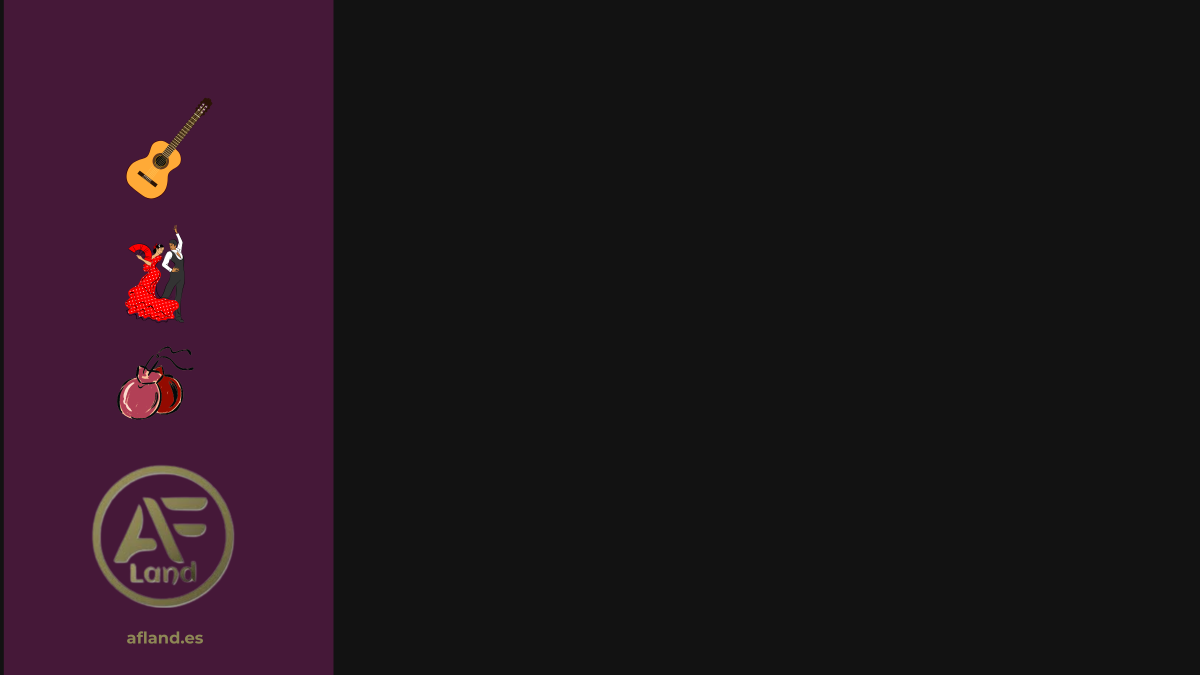
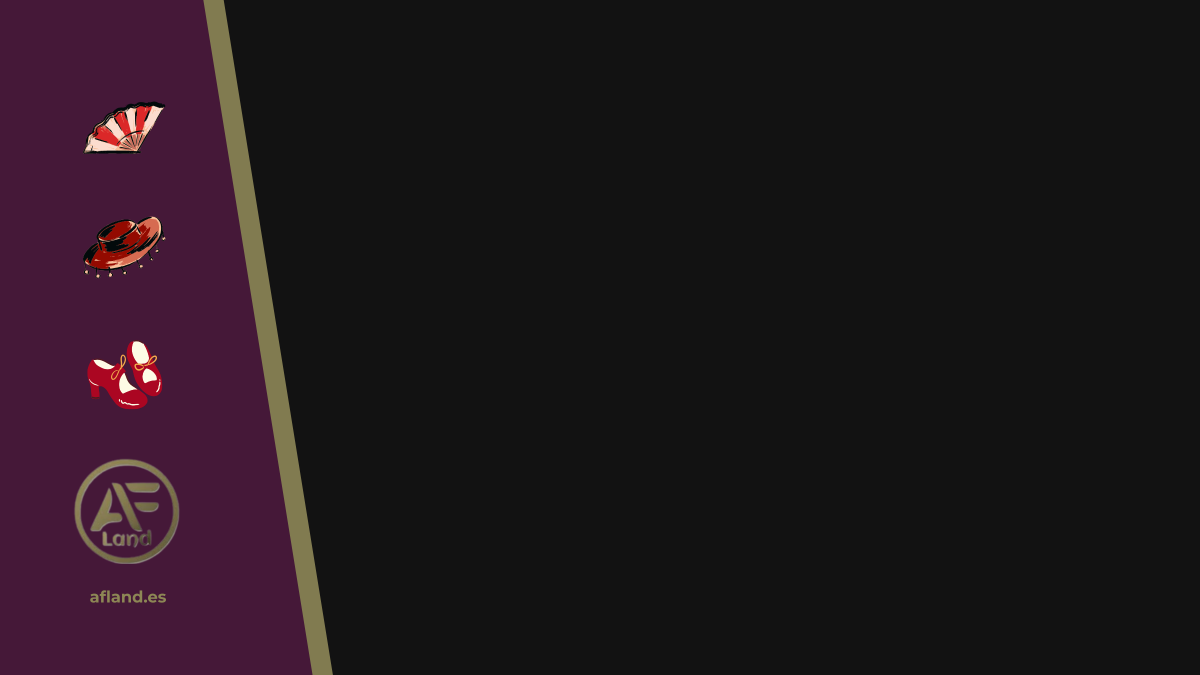
script cambiar imagenes tarjetas

diff --git a/image-enricher.js b/image-enricher.js
@@ -1,0 +1,97 @@
+// image-enricher.js
+
+require('dotenv').config();
+const { connectToDatabase } = require('./lib/database.js');
+const { createFinderImage } = require('./lib/imageGenerator.js');
+const { uploadImage } = require('./lib/wordpressClient.js');
+const { ObjectId } = require('mongodb');
+const fs = require('fs').promises; // Usamos la versión de promesas de fs
+
+// --- CONFIGURACIÓN ---
+// Para la primera ejecución, dejamos la query abierta para que procese todos.
+// En el futuro, podríamos cambiarla a: { imageUrl: { $exists: false } }
+const QUERY = {};
+const BATCH_SIZE = 100; // Procesará eventos en lotes de 100 para no sobrecargar
+
+async function enrichImages() {
+    console.log("--- 🚀 INICIANDO ENRIQUECEDOR DE IMÁGENES ---");
+
+    try {
+        const db = await connectToDatabase();
+        const eventsCollection = db.collection('events');
+
+        console.log("🔎 Buscando eventos para enriquecer...");
+        const eventsToProcess = await eventsCollection.find(QUERY).limit(BATCH_SIZE).toArray();
+
+        if (eventsToProcess.length === 0) {
+            console.log("✅ No se encontraron eventos que necesiten una nueva imagen. ¡Trabajo hecho!");
+            return;
+        }
+
+        console.log(`⚙ Se encontraron ${eventsToProcess.length} eventos en este lote para procesar.`);
+
+        for (const event of eventsToProcess) {
+            console.log(`\n-----------------------------------------------------`);
+            console.log(`🎨 Procesando evento: "${event.name}" en "${event.city}"`);
+
+            let imagePath = null;
+            try {
+                // 1. Crear la imagen localmente
+                console.log("   1/4: Creando imagen con Sharp...");
+                imagePath = await createFinderImage(event);
+                if (!imagePath) throw new Error("La creación de la imagen falló.");
+
+                // 2. Subir la imagen a WordPress
+                console.log("   2/4: Subiendo imagen a WordPress...");
+                const imageTitle = `${event.name} - ${event.city}`;
+                const imageId = await uploadImage(imagePath, imageTitle);
+                if (!imageId) throw new Error("La subida a WordPress falló.");
+
+                // uploadImage devuelve el ID, pero necesitamos la URL.
+                // Asumimos que el wordpressClient podría devolver más datos o construimos la URL.
+                // Por ahora, nos centramos en actualizar el campo en la BBDD.
+                // NOTA: Para obtener la URL final, necesitaríamos modificar uploadImage o hacer otra llamada.
+                // De momento, guardaremos una marca de que la imagen se ha procesado.
+                // En una futura mejora, guardaremos la URL completa.
+
+                // 3. Actualizar la base de datos
+                console.log("   3/4: Actualizando la base de datos...");
+                // Aquí deberíamos guardar la URL final de la imagen. 
+                // Por ahora, actualizaremos un campo para saber que se ha procesado.
+                await eventsCollection.updateOne(
+                    { _id: new ObjectId(event._id) },
+                    {
+                        $set: {
+                            // En el futuro, aquí iría: imageUrl: wordpressResponse.source_url
+                            imageGenerated: true,
+                            lastImageUpdate: new Date()
+                        }
+                    }
+                );
+
+                console.log(`   ✅ Evento actualizado en MongoDB.`);
+
+            } catch (error) {
+                console.error(`   ❌ Error procesando el evento "${event.name}":`, error.message);
+            } finally {
+                // 4. Limpiar la imagen temporal
+                if (imagePath) {
+                    try {
+                        await fs.unlink(imagePath);
+                        console.log(`   4/4: Imagen temporal eliminada.`);
+                    } catch (cleanupError) {
+                        console.error(`   ⚠ Error al eliminar la imagen temporal ${imagePath}:`, cleanupError.message);
+                    }
+                }
+            }
+        }
+
+    } catch (error) {
+        console.error("Ha ocurrido un error fatal durante el enriquecimiento:", error);
+    } finally {
+        console.log("\n--- ✨ PROCESO DE ENRIQUECIMIENTO FINALIZADO ---");
+        process.exit(0);
+    }
+}
+
+enrichImages();

diff --git a/lib/imageGenerator.js b/lib/imageGenerator.js
@@ -1,4 +1,4 @@
-// lib/imageGenerator.js (VERSIÓN FINAL CON COLOR DE LÍNEA #817b50)
+// lib/imageGenerator.js (VERSIÓN FINAL CON AJUSTES DE TEXTO)
 
 const sharp = require('sharp');
 const path = require('path');
@@ -7,7 +7,7 @@ async function createFinderImage(event) {
     try {
         const imageWidth = 1200;
         const imageHeight = 675;
-        const sidebarWidth = 240;
+        const sidebarWidth = 240; // Ancho donde empieza el área de texto
 
         const templates = ['template1.png', 'template2.png'];
         const chosenTemplate = templates[Math.floor(Math.random() * templates.length)];
@@ -18,21 +18,21 @@ async function createFinderImage(event) {
         const dateText = eventDate.toLocaleDateString('es-ES', dateOptions);
         const cityText = event.city.toUpperCase();
 
-        // --- COLOR DE LÍNEA ACTUALIZADO ---
-        const separatorLineColor = '#817b50';
-        const textAreaXCenter = sidebarWidth + ((imageWidth - sidebarWidth) / 2);
+        // --- AJUSTES FINALES DE DISEÑO ---
+        // El área de texto empieza en el píxel 240 y termina en el 1200.
+        // El centro de esa área es: 240 + ((1200 - 240) / 2) = 720
+        const textAreaXCenter = 720;
 
         const svgContent = `
         <svg width="${imageWidth}" height="${imageHeight}">
             <style>
-                .date { fill: #FFFFFF; font-size: 60px; font-family: 'Montserrat', sans-serif; font-weight: bold; }
-                .city { fill: #FFFFFF; font-size: 40px; font-family: 'Montserrat', sans-serif; font-weight: bold; }
+                /* Tamaño de fuente ligeramente reducido */
+                .date { fill: #FFFFFF; font-size: 55px; font-family: 'Montserrat', sans-serif; font-weight: bold; }
+                .city { fill: #FFFFFF; font-size: 36px; font-family: 'Montserrat', sans-serif; font-weight: bold; }
             </style>
             
-            <rect x="${sidebarWidth - 1}" y="0" width="2" height="${imageHeight}" fill="${separatorLineColor}" />
-
-            <text x="${textAreaXCenter}" y="325" text-anchor="middle" class="date">${dateText}</text>
-            <text x="${textAreaXCenter}" y="395" text-anchor="middle" class="city">${cityText}</text>
+            <text x="${textAreaXCenter}" y="330" text-anchor="middle" class="date">${dateText}</text>
+            <text x="${textAreaXCenter}" y="390" text-anchor="middle" class="city">${cityText}</text>
         </svg>
         `;
 
